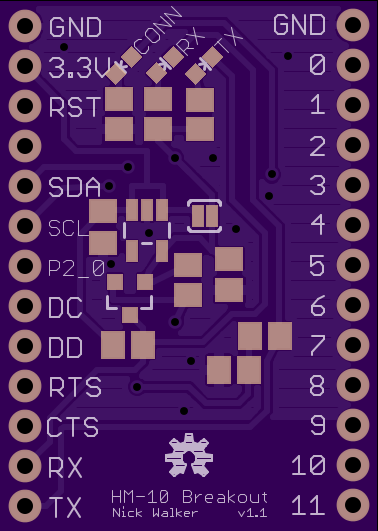
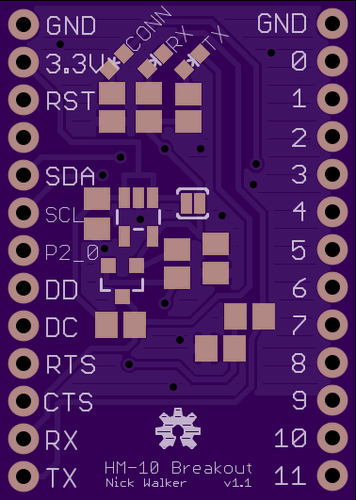
Fix swapped debug signals
Update images
Update eagle files to v7

diff --git a/README.md b/README.md
@@ -19,7 +19,7 @@ At a bare minimum, the PCB and the HM-10 module are required. You'll probably wa
 
 Part (Digi-Key #) | Quantity | Optional (Required For)
 :---------------- | :-------:| :----------------------
-[Breakout PCB](https://oshpark.com/shared_projects/u0PiRIvl)  | 1 | No
+[Breakout PCB](https://oshpark.com/shared_projects/A6hoH6Fi)  | 1 | No
 [HM-10 Module](http://www.fasttech.com/products/0/10004051/1292002-ti-cc2540-bluetooth-40-ble-2540-transparent-serial) | 1 | No
 [0805 20kΩ Resistor](http://www.digikey.com/product-detail/en/RMCF0805JT20K0/RMCF0805JT20K0CT-ND/1942580) (RMCF0805JT20K0CT-ND) | 1 | Yes (UART level conversion)
 [0805 10kΩ Resistor](http://www.digikey.com/product-detail/en/RMCF0805FT10K0/RMCF0805FT10K0DKR-ND/1943341) (RMCF0805FT10K0CT-ND) | 3 | Yes (UART level conversion)
